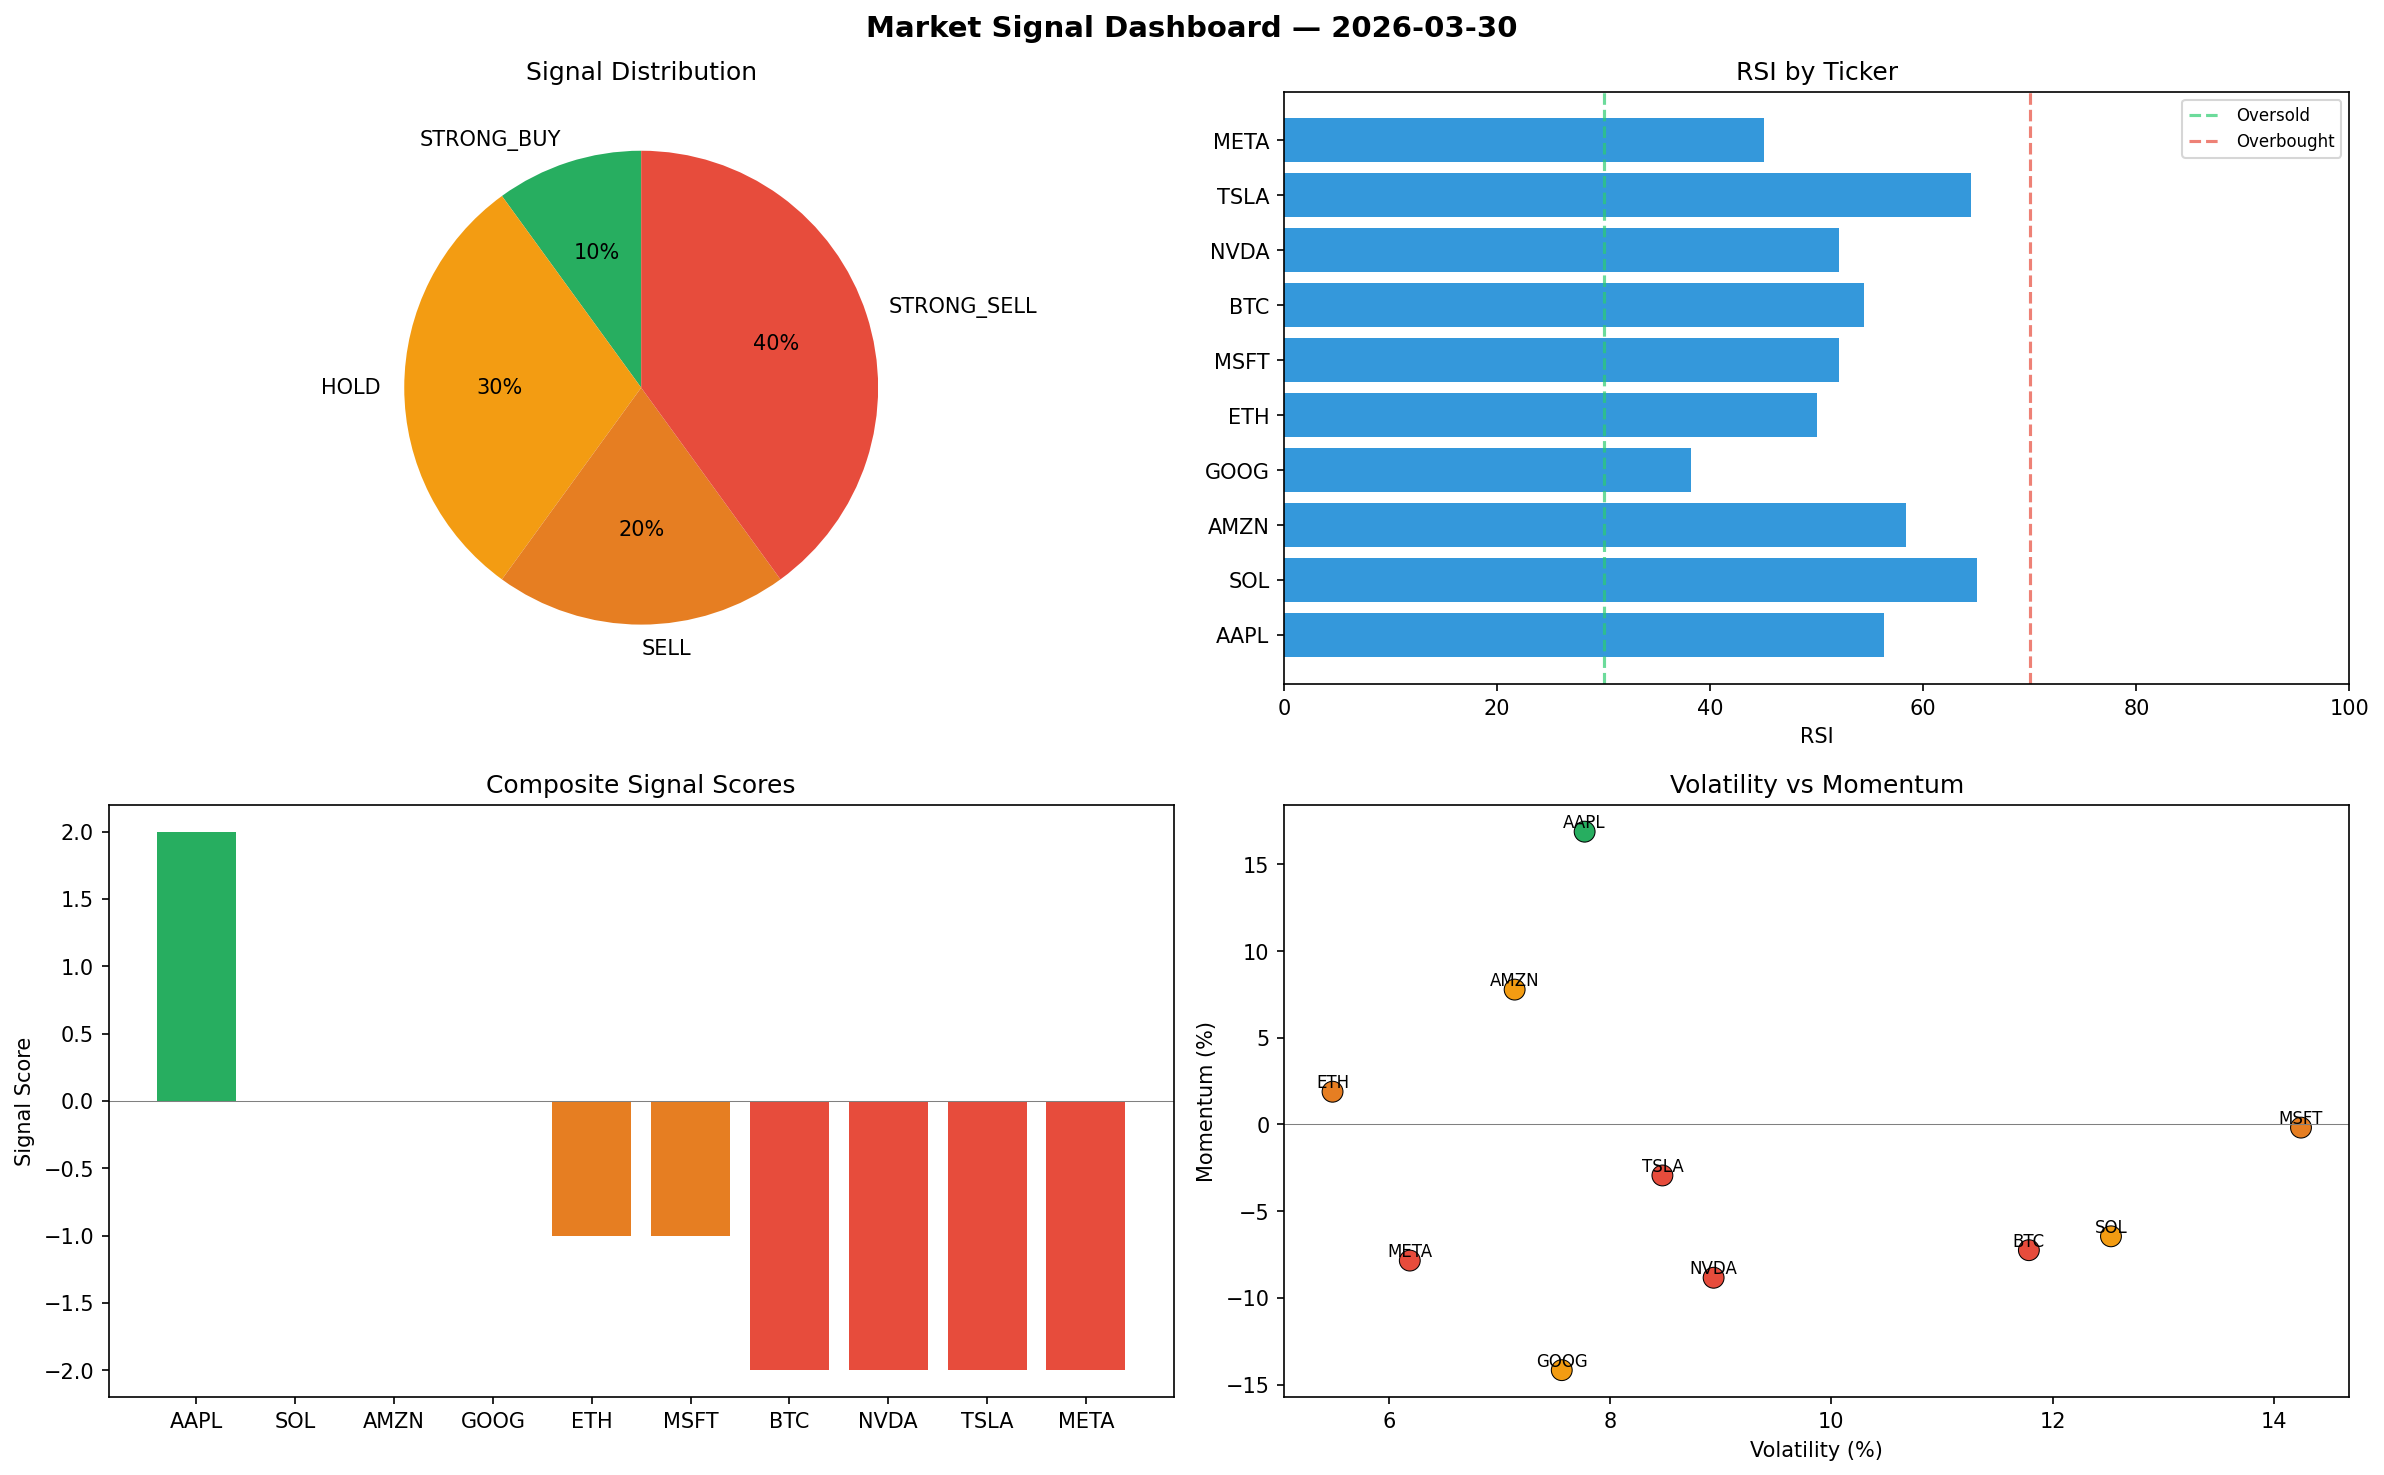
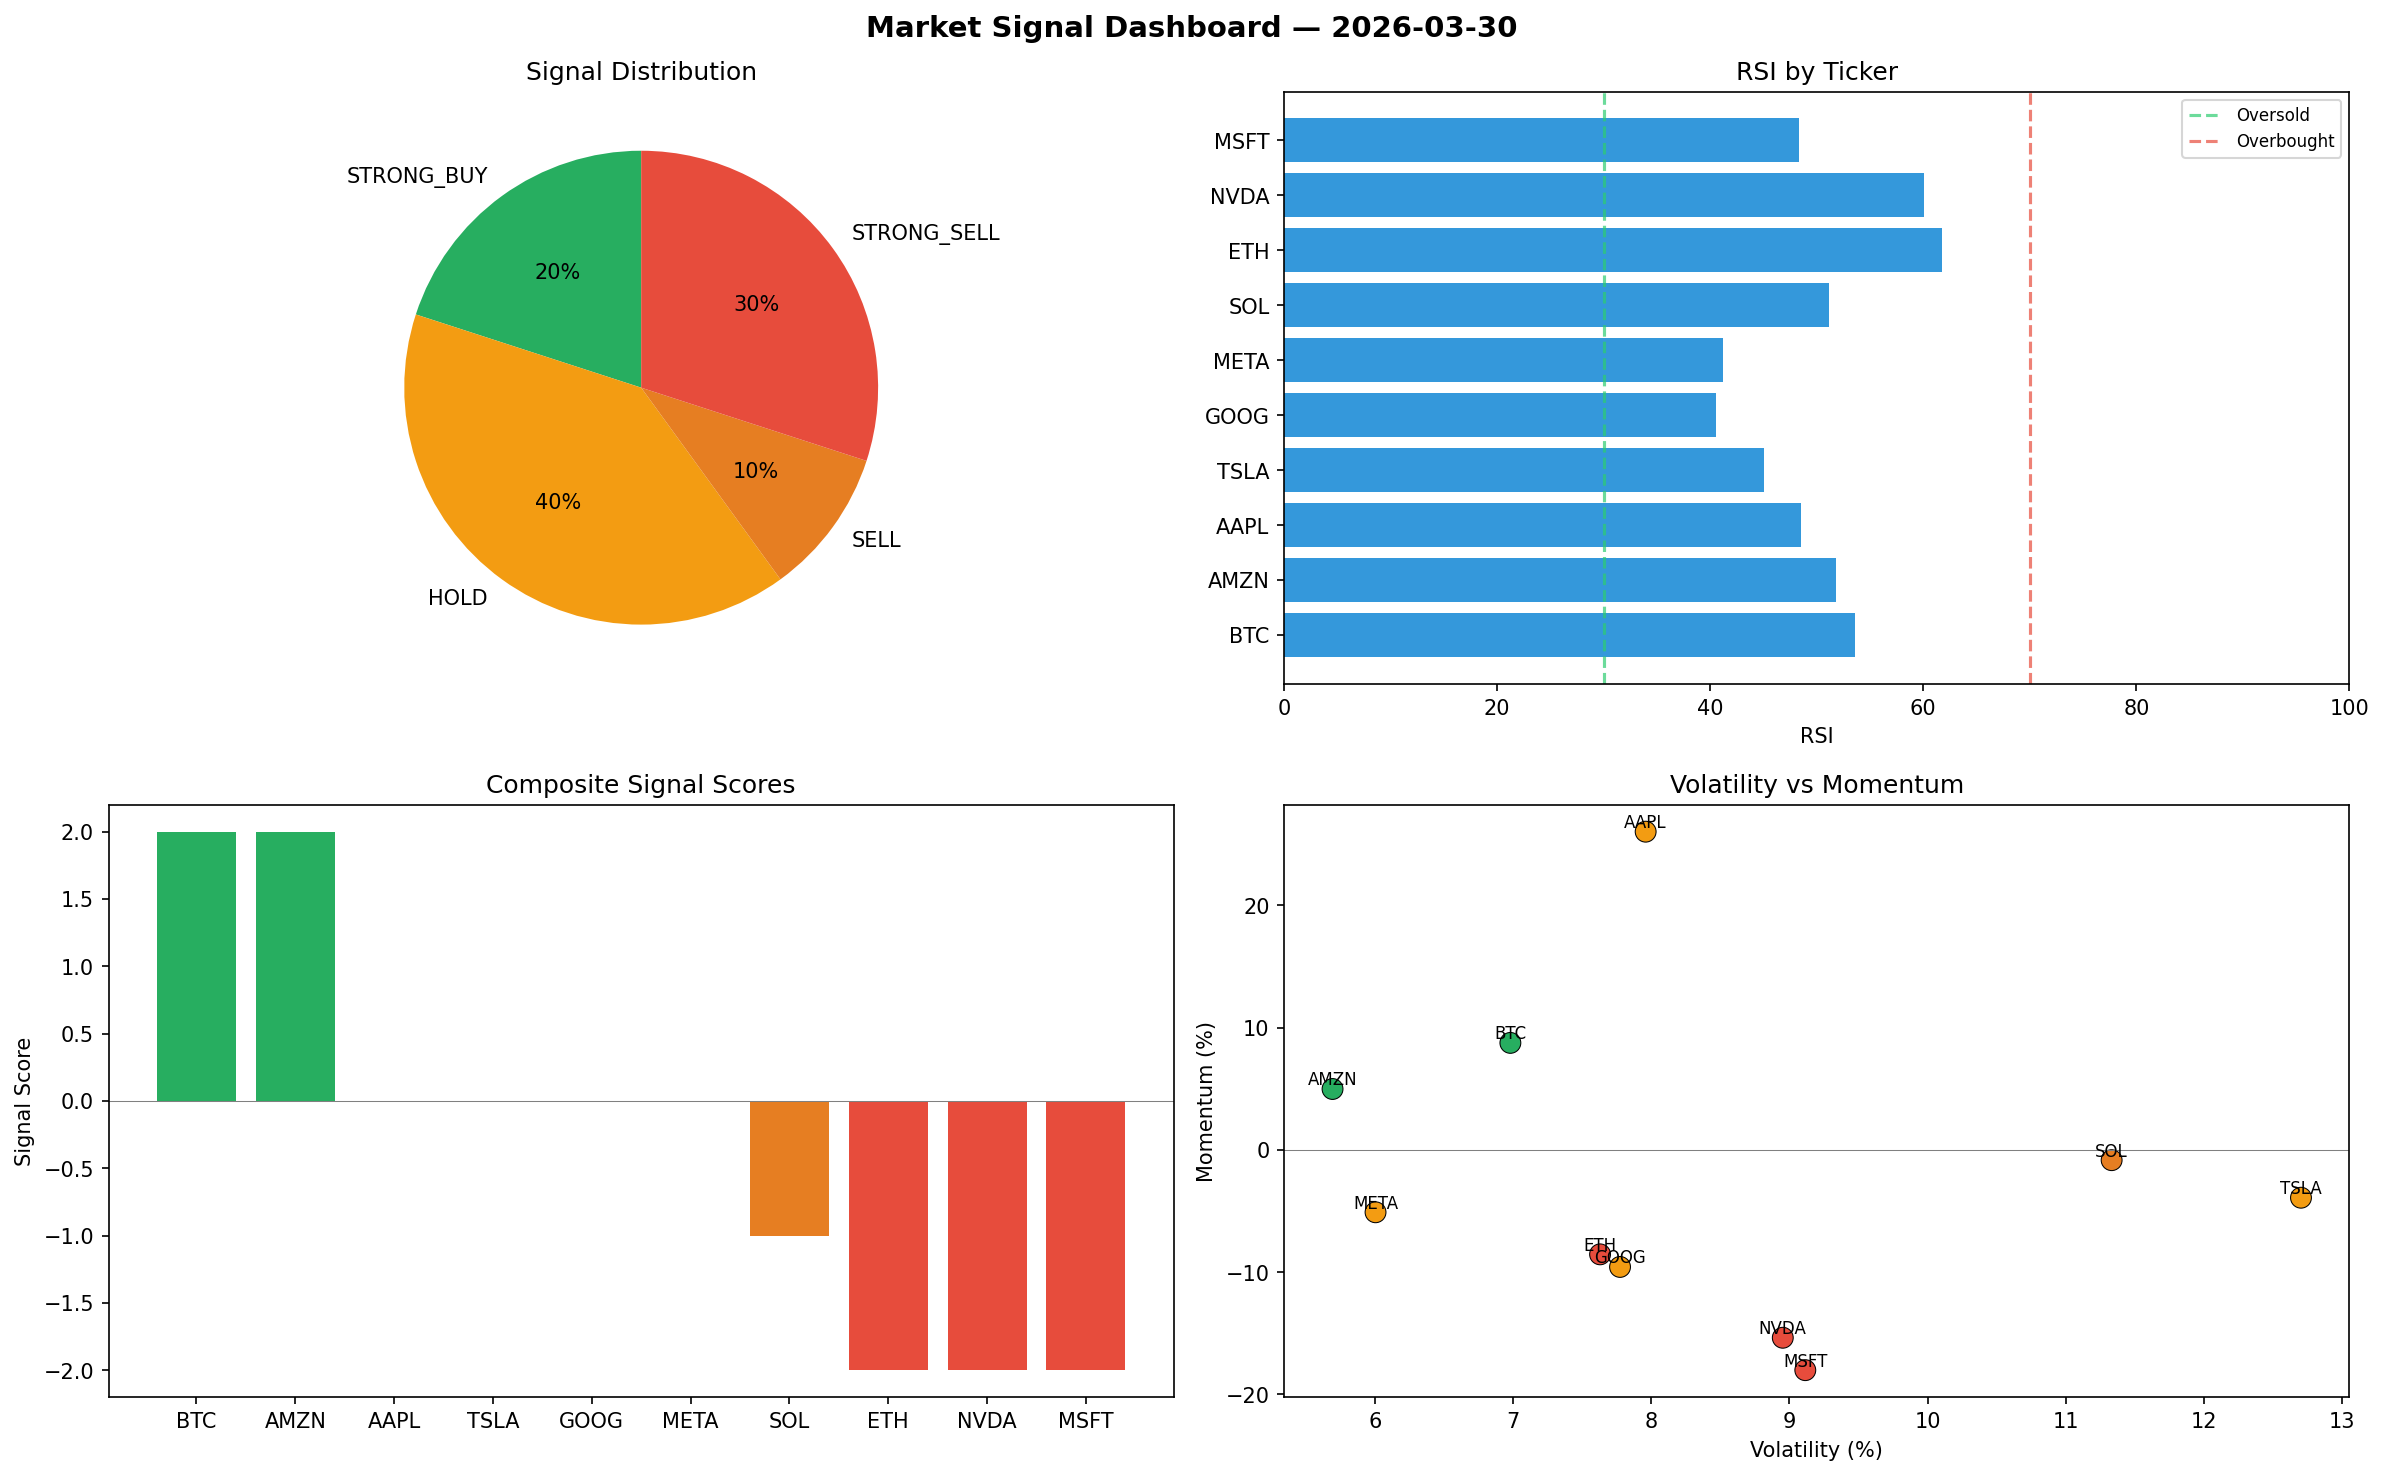
automated-bots: market signals 2026-03-30T15:50

diff --git a/logs/2026-03-30.md b/logs/2026-03-30.md
@@ -1,6 +1,6 @@
 # Market Signal Report — 2026-03-30
 
-**Run ID:** `44fd30587d` | **Buy:** 1 | **Sell:** 6 | **Hold:** 3
+**Run ID:** `a1ed78d594` | **Buy:** 2 | **Sell:** 4 | **Hold:** 4
 
 ![Dashboard](2026-03-30_dashboard.png)
 
@@ -8,28 +8,28 @@
 
 | Ticker | Price | Signal | Score | RSI | Momentum | Confidence |
 |--------|-------|--------|-------|-----|----------|------------|
-| AAPL | $5350.27 | **STRONG_BUY** | 2 | 56.27 | 0.1689 | 0.5 |
-| SOL | $2780.43 | **HOLD** | 0 | 65.08 | -0.0645 | 0.0 |
-| AMZN | $1040.14 | **HOLD** | 0 | 58.34 | 0.0778 | 0.0 |
-| GOOG | $3003.72 | **HOLD** | 0 | 38.2 | -0.1417 | 0.0 |
-| ETH | $4252.6 | **SELL** | -1 | 50.04 | 0.0189 | 0.25 |
-| MSFT | $4949.82 | **SELL** | -1 | 52.11 | -0.0018 | 0.25 |
-| BTC | $4003.99 | **STRONG_SELL** | -2 | 54.42 | -0.0725 | 0.5 |
-| NVDA | $4483.43 | **STRONG_SELL** | -2 | 52.06 | -0.0884 | 0.5 |
-| TSLA | $4290.31 | **STRONG_SELL** | -2 | 64.5 | -0.0294 | 0.5 |
-| META | $998.52 | **STRONG_SELL** | -2 | 45.04 | -0.0785 | 0.5 |
+| BTC | $1215.99 | **STRONG_BUY** | 2 | 53.62 | 0.0875 | 0.5 |
+| AMZN | $2998.85 | **STRONG_BUY** | 2 | 51.78 | 0.0498 | 0.5 |
+| AAPL | $4488.57 | **HOLD** | 0 | 48.53 | 0.2602 | 0.0 |
+| TSLA | $3495.81 | **HOLD** | 0 | 45.08 | -0.0391 | 0.0 |
+| GOOG | $1202.85 | **HOLD** | 0 | 40.51 | -0.0957 | 0.0 |
+| META | $669.95 | **HOLD** | 0 | 41.23 | -0.051 | 0.0 |
+| SOL | $3635.0 | **SELL** | -1 | 51.18 | -0.0084 | 0.25 |
+| ETH | $76.85 | **STRONG_SELL** | -2 | 61.8 | -0.0854 | 0.5 |
+| NVDA | $184.85 | **STRONG_SELL** | -2 | 60.03 | -0.1536 | 0.5 |
+| MSFT | $3690.87 | **STRONG_SELL** | -2 | 48.31 | -0.1801 | 0.5 |
 
 ## Delta vs Yesterday
 
 | Ticker | Today | Yesterday | Price Change | Signal Changed |
 |--------|-------|-----------|-------------|----------------|
-| AAPL | STRONG_BUY | STRONG_SELL | 📈 6332.16% | ⚠ YES |
-| SOL | HOLD | STRONG_BUY | 📈 13.11% | ⚠ YES |
-| AMZN | HOLD | BUY | 📉 -4.04% | ⚠ YES |
-| GOOG | HOLD | STRONG_SELL | 📉 -9.17% | ⚠ YES |
-| ETH | SELL | STRONG_BUY | 📈 2284.55% | ⚠ YES |
-| MSFT | SELL | SELL | 📈 37.78% | — |
-| BTC | STRONG_SELL | STRONG_SELL | 📈 226.57% | — |
-| NVDA | STRONG_SELL | STRONG_SELL | 📈 89.87% | — |
-| TSLA | STRONG_SELL | STRONG_BUY | 📈 38.88% | ⚠ YES |
-| META | STRONG_SELL | STRONG_BUY | 📉 -52.39% | ⚠ YES |
+| BTC | STRONG_BUY | STRONG_SELL | 📉 -0.82% | ⚠ YES |
+| AMZN | STRONG_BUY | BUY | 📈 176.66% | ⚠ YES |
+| AAPL | HOLD | STRONG_SELL | 📈 5296.21% | ⚠ YES |
+| TSLA | HOLD | STRONG_BUY | 📈 13.17% | ⚠ YES |
+| GOOG | HOLD | STRONG_SELL | 📉 -63.63% | ⚠ YES |
+| META | HOLD | STRONG_BUY | 📉 -68.05% | ⚠ YES |
+| SOL | SELL | STRONG_BUY | 📈 47.88% | ⚠ YES |
+| ETH | STRONG_SELL | STRONG_BUY | 📉 -56.91% | ⚠ YES |
+| NVDA | STRONG_SELL | STRONG_SELL | 📉 -92.17% | — |
+| MSFT | STRONG_SELL | SELL | 📈 2.74% | ⚠ YES |
